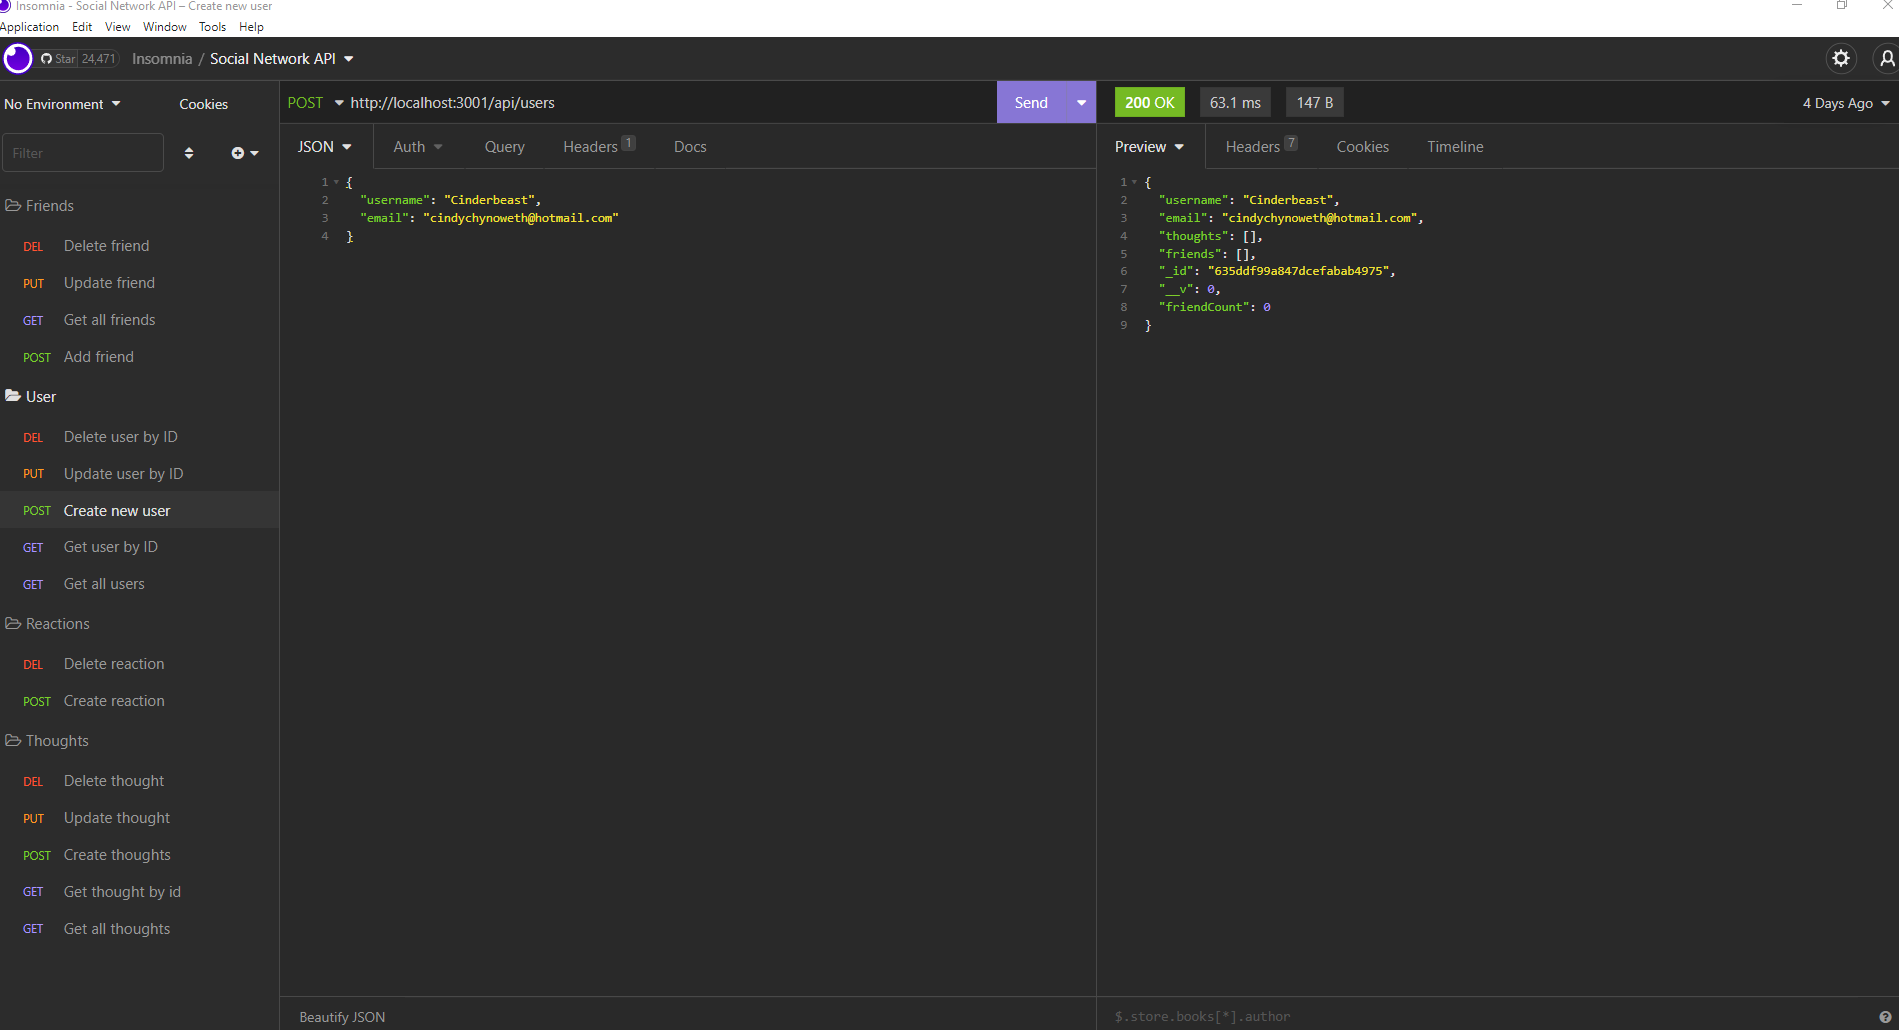
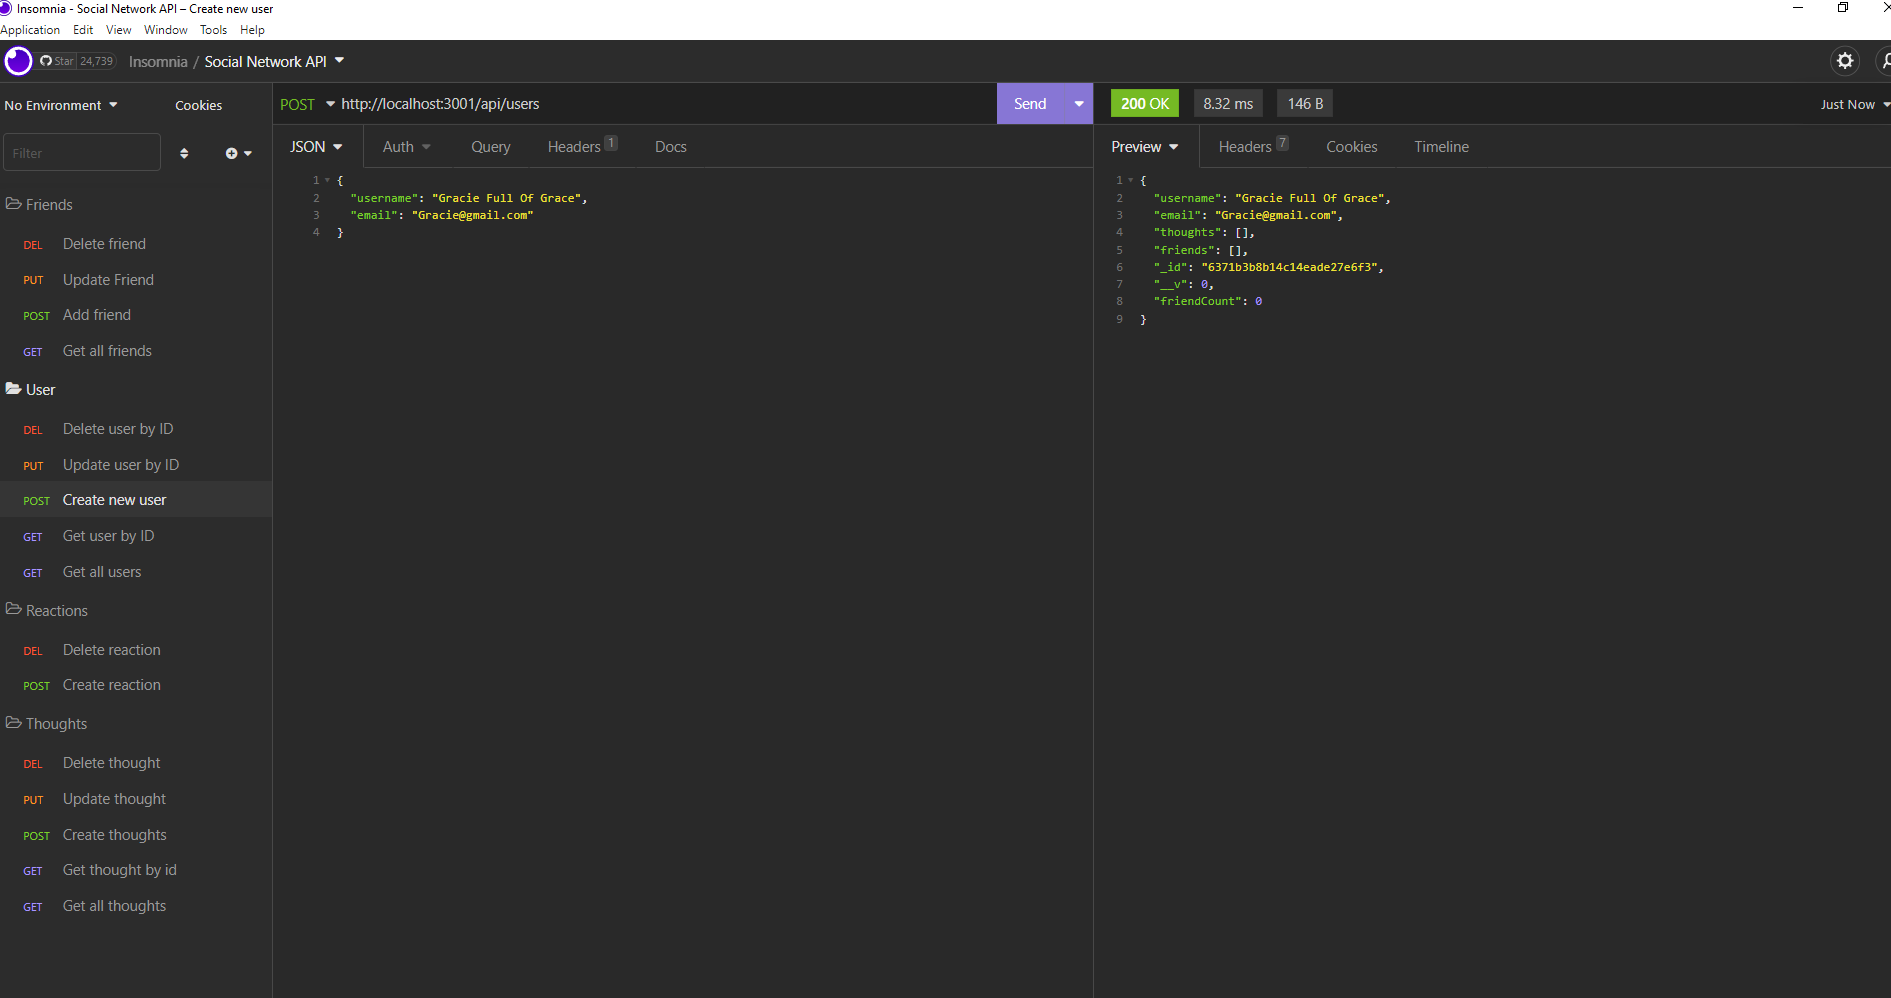
UpdatedScreenshots

diff --git a/routes/user.js b/routes/user.js
@@ -2,7 +2,7 @@
 const router = require('express').Router();
 
 const { User, Thought } = require('../models');
-const friendRoutes = require('./subRoutes/friend');
+const friendRoutes = require('./secondaryRoutes/friend');
 const removeFriends = require('./utils/removeFriends');
 
 router.use('/:userID/friends',(req,res,next) => {

diff --git a/routes/thought.js b/routes/thought.js
@@ -2,7 +2,7 @@
 const router = require('express').Router();
 
 const { User, Thought } = require('../models');
-const reactionRoutes = require('./subRoutes/reaction');
+const reactionRoutes = require('./secondaryRoutes/reaction');
 
 router.use('/:thoughtID/reactions',(req,res,next) => {
   req.reactionParams = req.params;

diff --git a/README.md b/README.md
@@ -50,22 +50,22 @@ Run the following command on your CLI to run the application:
 ## Screenshots
 
 All Useres
-![AllUsers](https://user-images.githubusercontent.com/105569378/199856643-39b10d70-45ca-4310-9cb4-d89f8c75ef18.png)
+![AllUsers](https://user-images.githubusercontent.com/105569378/201570475-0c4a2a6c-466d-46a8-b7c5-838728a11888.png)
 
 Create New User
-![CreateNewUser](https://user-images.githubusercontent.com/105569378/199856663-e9aa5f96-02b9-44a5-ab8c-99a44b3a5455.png)
+![CreateNewUser](https://user-images.githubusercontent.com/105569378/201570492-9640801a-a5bd-482d-bbd8-c44e81f90299.png)
 
-All Friends
-![Friends](https://user-images.githubusercontent.com/105569378/199856669-e841b79b-cb30-4765-a2e2-fe86e3cb1e5c.png)
+Friends
+![Friends](https://user-images.githubusercontent.com/105569378/201570509-7a05c445-60bd-464a-8ce7-4c5c07be6613.png)
 
 Add A Friend
-![AddAFriend](https://user-images.githubusercontent.com/105569378/199859803-9b1c6bb2-97af-4d49-b848-97df9a0af431.png)
+![AddAFriend](https://user-images.githubusercontent.com/105569378/201570520-40003e00-a324-4ed6-aae5-5bd942dc83cf.png)
 
-Create A Thought
-![CreateThought](https://user-images.githubusercontent.com/105569378/199857459-48e9f699-aa4c-4465-8e79-c2d74a577ad9.png)
+Create a thought
+![CreateThought](https://user-images.githubusercontent.com/105569378/201571044-26562301-02e1-478c-90b9-72b34f4676a1.png)
 
-Create Reaction to a Thought
-![CreateReactionToThought](https://user-images.githubusercontent.com/105569378/199856682-21580e92-63b2-422b-b993-a0a89d88ae12.png)
+Create A Reacition To A Thought
+![CreateReactionToThought](https://user-images.githubusercontent.com/105569378/201570566-b6b50247-b60f-4ae6-ae1a-03abe4a2d7fe.png)
 
 ## Walkthrough Video
 
